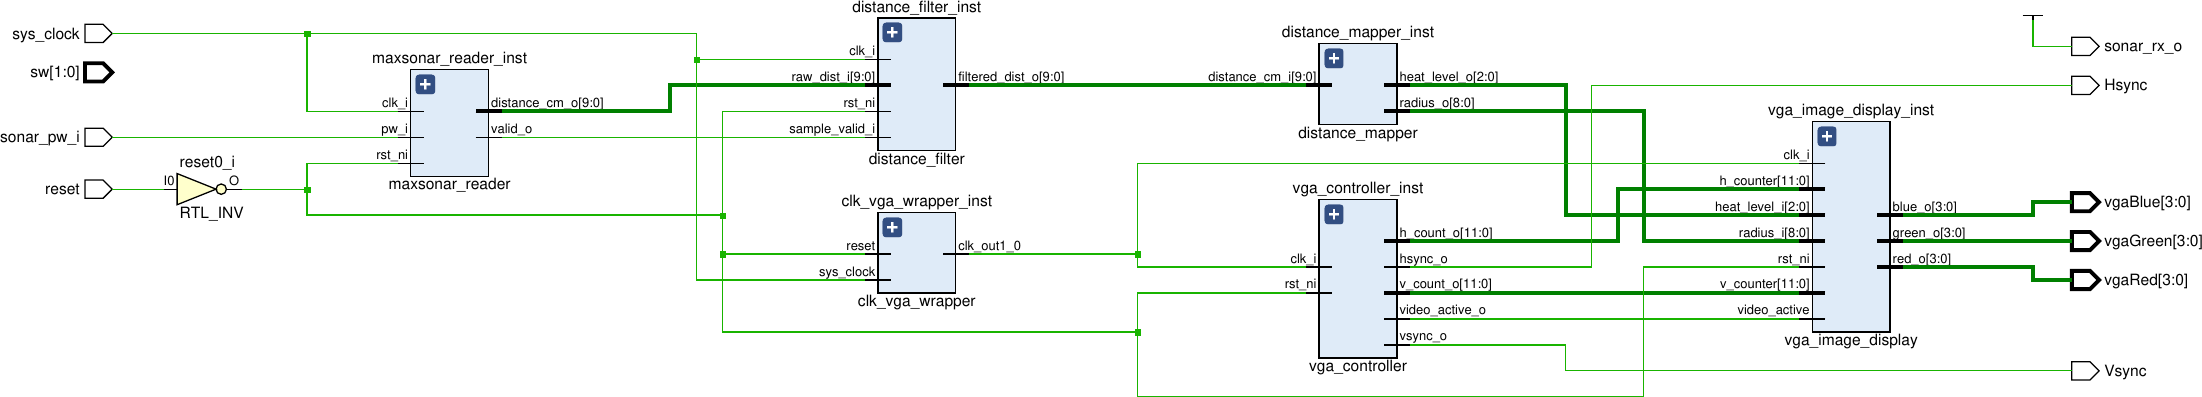
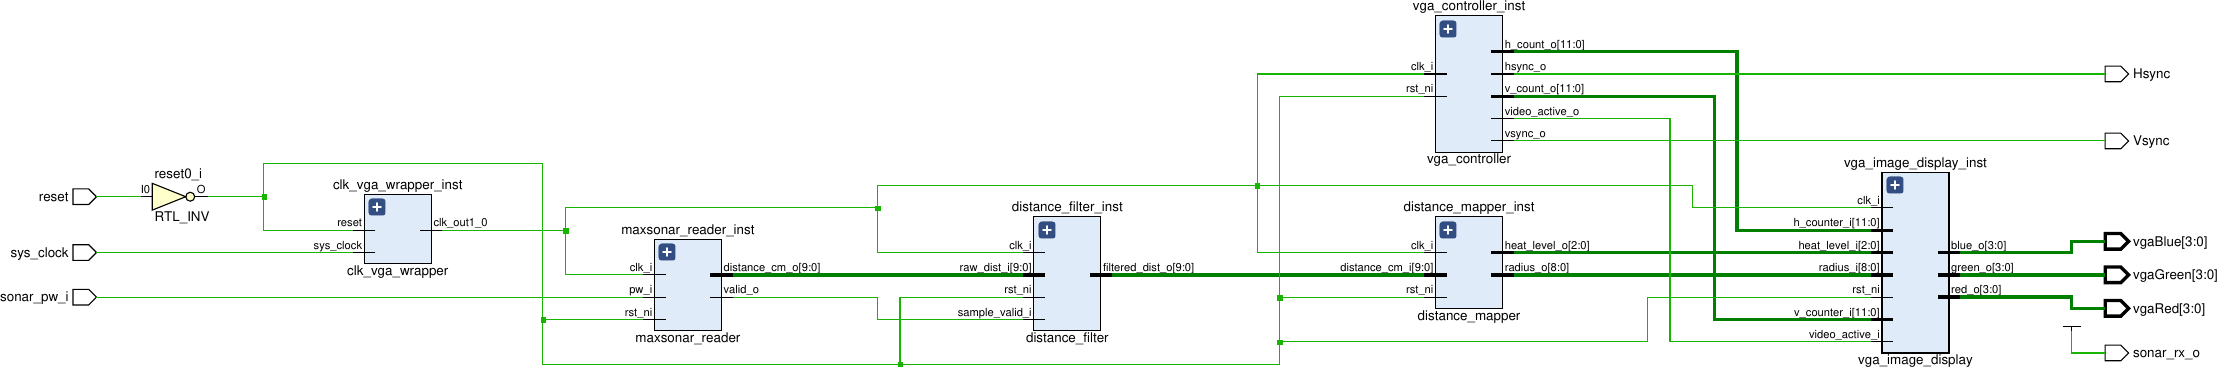
doc: add new schematic

diff --git a/readme.md b/readme.md
@@ -44,7 +44,7 @@
     - [Etapa 4: Integrarea Senzorului Ultrasonic](#etapa-4-integrarea-senzorului-ultrasonic)
     - [Etapa 5: Maparea Datelor și Randarea Grafică pe Ecran](#etapa-5-maparea-datelor-și-randarea-grafică-pe-ecran)
     - [Etapa 6: Filtrarea și Stabilizarea Semnalului (Moving Average Filter)](#etapa-6-filtrarea-și-stabilizarea-semnalului-moving-average-filter)
-    - [Etapa 7: Optimizarea Logicii și Închiderea Timing-ului (Pipelining)](#etapa-7-optimizarea-logicii-și-închiderea-timing-ului-pipelining)
+    - [Etapa 7: Optimizarea Logicii](#etapa-7-optimizarea-logicii)
 
 ## Obiectivele Proiectului
 
@@ -101,7 +101,7 @@ Obiectivul acestui proiect este proiectarea și implementarea unui controller VG
 * **Dificultăți întâmpinate**: Din cauza micilor variații de mediu ale undelor ultrasonice, valoarea distanței varia rapid cu ±1 cm, determinând o redimensionare sacadată și un tremur supărător al cercului pe ecran.
 * **Mod de rezolvare**: Implementarea filtrului de medie mobilă a eliminat zgomotul de înaltă frecvență, oferind tranziții line și un aspect vizual extrem de stabil, fără a introduce latență sesizabilă în răspunsul sistemului.
 
-### Etapa 7: Optimizarea Logicii și Închiderea Timing-ului (Pipelining)
+### Etapa 7: Optimizarea Logicii
 * **Obiectivul etapei**: Eliminarea căii critice din modulul `distance_mapper` și rezolvarea erorilor de timing, TNS (Total Negative Slack negativ) masiv, generate de operațiile matematice înlănțuite.
 * **Realizarea etapei**: Am refăcut arhitectura modulului `distance_mapper`, trecând de la o logică pur combinațională directă la o structură secvențială ce folosește blocuri `always_ff`. Calculul nivelului, al razei și determinarea pragului de căldură au fost eșalonate și stocate pe registre comandate de ceas.
 * **Dificultăți întâmpinate**: În varianta combinațională inițială, Vivado lega toate operațiile într-un singur lanț lung de porți logice, depășind limita de timp admisă într-un ciclu de ceas și generând o violare gravă de timing.